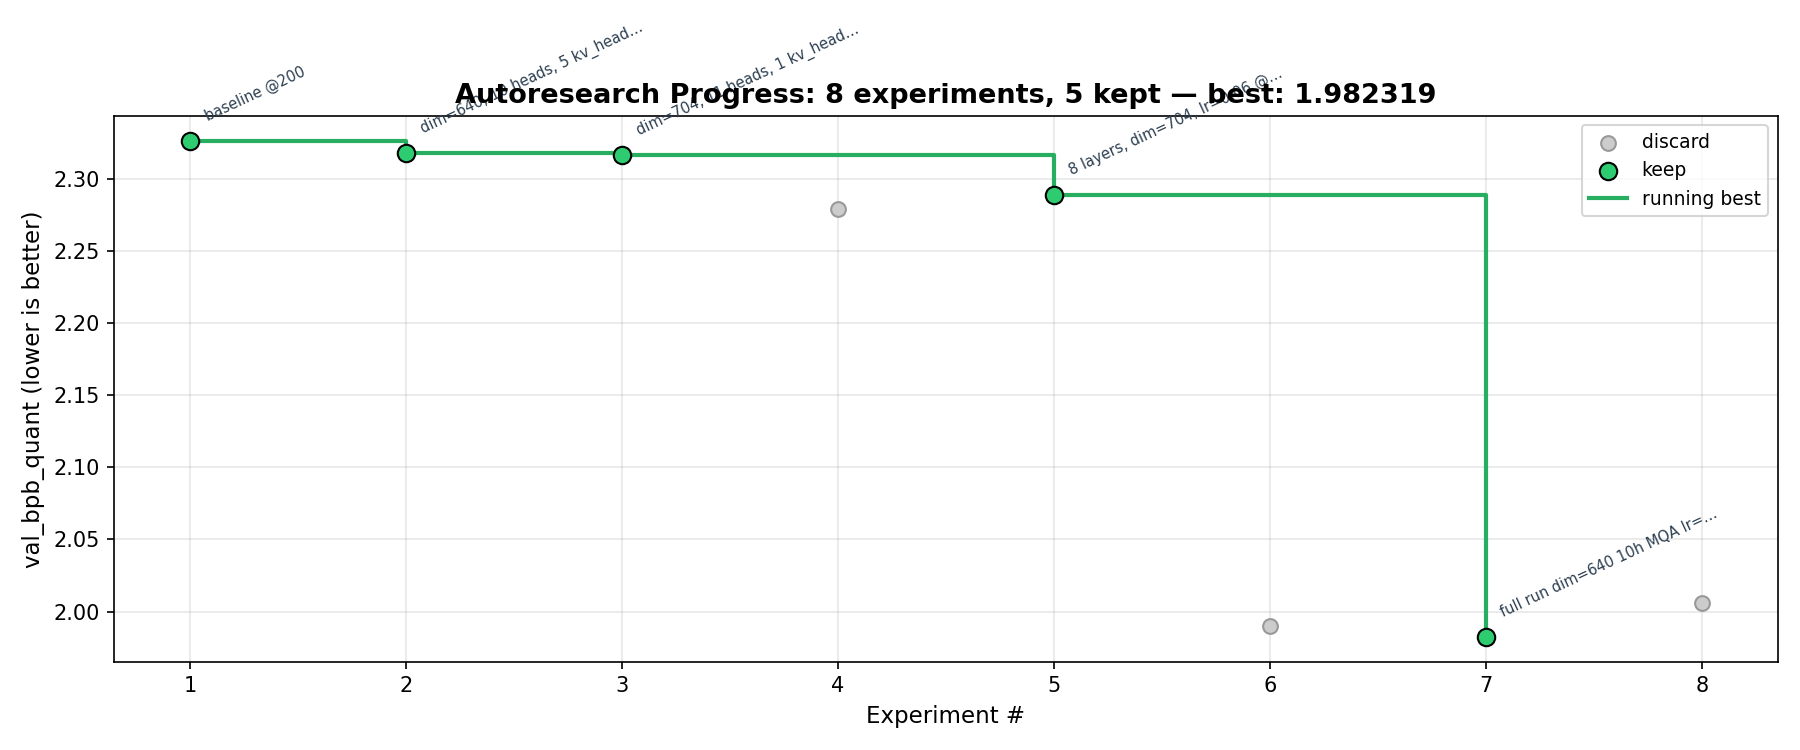
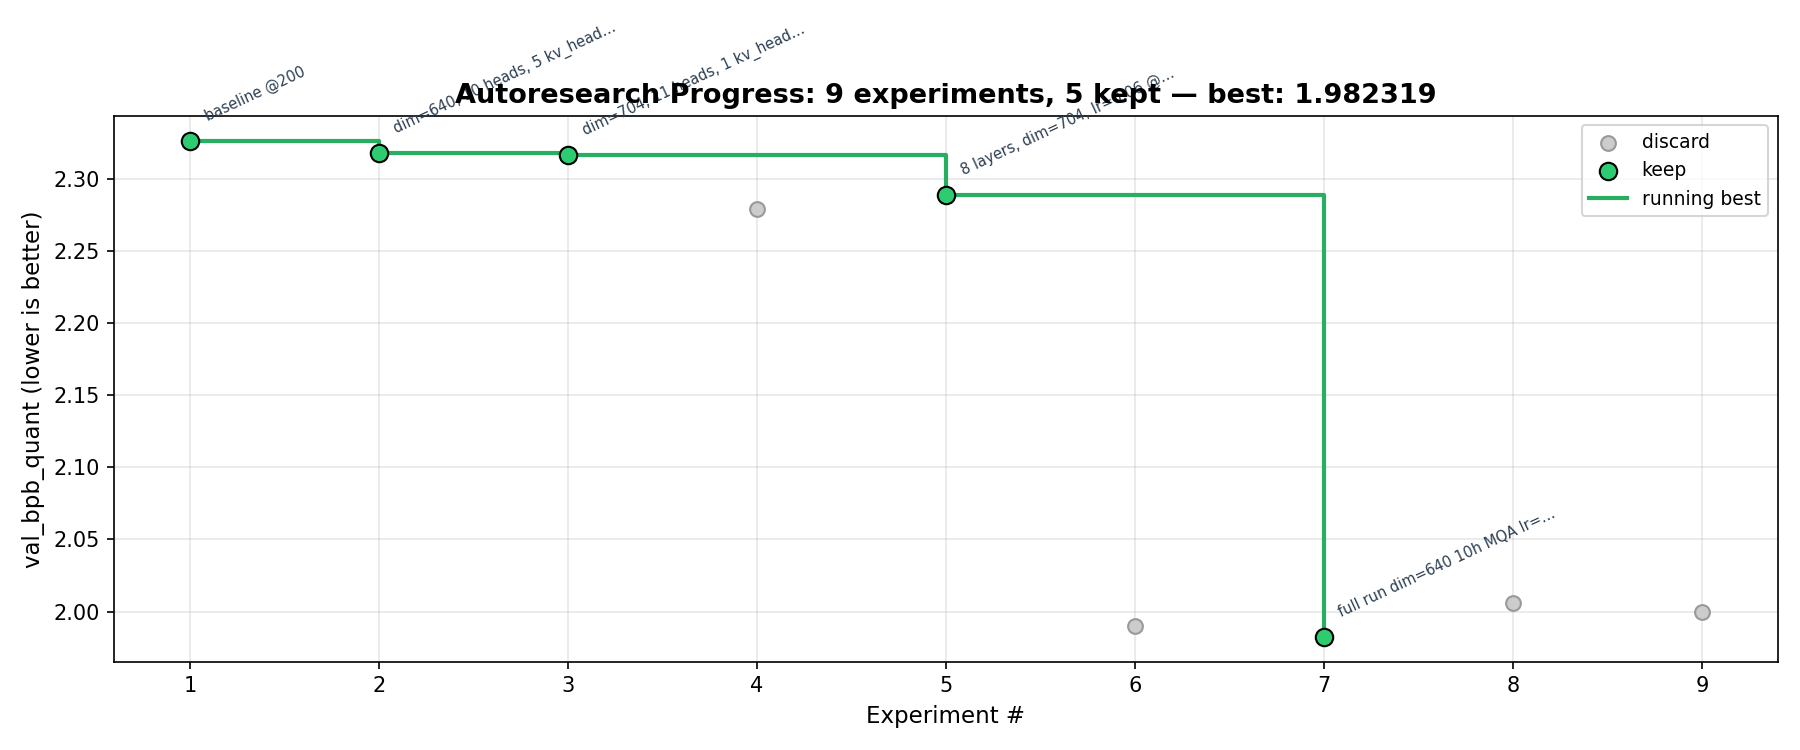
Update results: 9 layers dim=640 discard (slower per step, worse BPB)

diff --git a/train.py b/train.py
@@ -65,7 +65,7 @@ class Hyperparameters:
 
     # Model architecture
     vocab_size: int = int(os.environ.get("VOCAB_SIZE", 1024))
-    num_layers: int = int(os.environ.get("NUM_LAYERS", 9))
+    num_layers: int = int(os.environ.get("NUM_LAYERS", 8))
     model_dim: int = int(os.environ.get("MODEL_DIM", 640))
     num_heads: int = int(os.environ.get("NUM_HEADS", 10))
     num_kv_heads: int = int(os.environ.get("NUM_KV_HEADS", 1))

diff --git a/README.md b/README.md
@@ -18,6 +18,7 @@ An AI agent autonomously iterates on a small GPT model, trying to minimize bits-
 | 6 | 2c4cdf5 | 565 | 1.990023 | 17.3 MB | discard | full run dim=704 8L lr=0.08 (artifact FAIL) |
 | 7 | d9d6b95 | 649 | 1.982319 | 14.5 MB | keep | full run dim=640 10h MQA lr=0.06 |
 | 8 | bbbe9b0 | 650 | 2.005917 | 16.6 MB | discard | warmdown_iters 1200→400 (artifact FAIL) |
+| 9 | 4305cc7 | 555 | 1.999741 | 15.5 MB | discard | 9 layers dim=640 MQA (slower, fewer steps) |
 
 **Current best: 1.982319** (dim=640, 10 heads, MQA, lr=0.06, full run)
 
